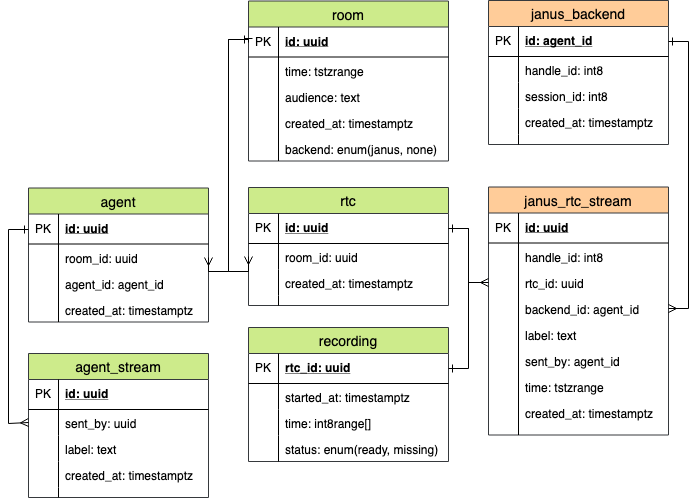
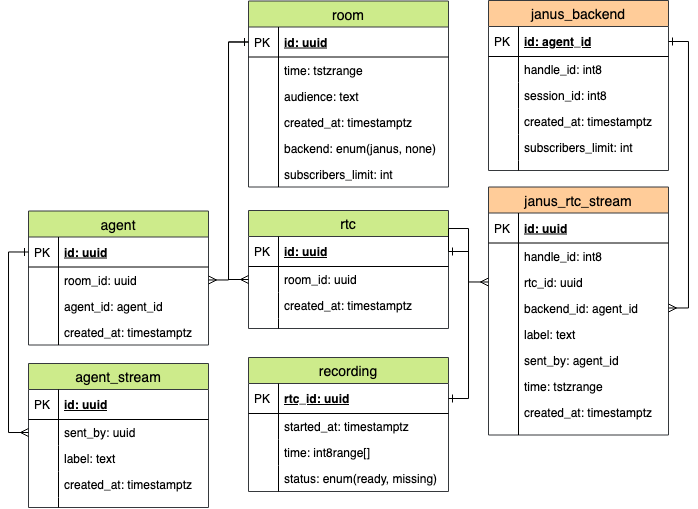
Update docs

diff --git a/docs/src/api/room.md b/docs/src/api/room.md
@@ -2,10 +2,11 @@
 
 ## Properties
 
-Name           | Type       | Default    | Description
----------------| ---------- | ---------- | ----------------------------------------------------
-id             |       uuid | _required_ | The room identifier.
-audience       |     string | _required_ | The audience of the room.
-time           | [int, int] | _required_ | Opening and closing timestamps in seconds.
-created_at     |        int | _required_ | Room creation timestamp in seconds.
-backend        |     string | _required_ | Room backend, either `janus` or `none`.
+Name              | Type       | Default    | Description
+----------------- | ---------- | ---------- | ----------------------------------------------------
+id                |       uuid | _required_ | The room identifier.
+audience          |     string | _required_ | The audience of the room.
+time              | [int, int] | _required_ | Opening and closing timestamps in seconds.
+created_at        |        int | _required_ | Room creation timestamp in seconds.
+backend           |     string | _required_ | Room backend, either `janus` or `none`.
+subscribers_limit |        int | _optional_ | The maximum number of simultaneously entered subscribers allowed.

diff --git a/docs/src/api/room/update.md b/docs/src/api/room/update.md
@@ -14,13 +14,13 @@ method           | String | _required_ | Always `room.update`.
 
 **Payload**
 
-Name     | Type       | Default    | Description
--------- | ---------- | ---------- | ------------------
-id       | String     | _required_ | The room identifier. The room must not be expired.
-time     | [i64, i64) | _optional_ | A [lt, rt) range of unix time (seconds) or null (unbounded).
-audience | String     | _optional_ | The room audience.
-backend  | String     | _optional_ | The room backend. Available values: janus, none.
-
+Name              | Type       | Default    | Description
+----------------- | ---------- | ---------- | ------------------
+id                | String     | _required_ | The room identifier. The room must not be expired.
+time              | [i64, i64) | _optional_ | A [lt, rt) range of unix time (seconds) or null (unbounded).
+audience          | String     | _optional_ | The room audience.
+backend           | String     | _optional_ | The room backend. Available values: janus, none.
+subscribers_limit | i32        | _optional_ | The maximum number of simultaneously entered subscribers allowed.
 
 
 ## Unicast response

diff --git a/docs/src/api/room/create.md b/docs/src/api/room/create.md
@@ -15,12 +15,12 @@ method           | String | _required_ | Always `room.create`.
 
 **Payload**
 
-Name     | Type       | Default    | Description
--------- | ---------- | ---------- | ------------------
-time     | [i64, i64) | _required_ | A [lt, rt) range of unix time (seconds) or null (unbounded).
-audience | String     | _required_ | The room audience.
-backend  | String     | none       | The room backend. Available values: janus, none.
-
+Name              | Type       | Default    | Description
+----------------- | ---------- | ---------- | ------------------
+time              | [i64, i64) | _required_ | A [lt, rt) range of unix time (seconds) or null (unbounded).
+audience          | String     | _required_ | The room audience.
+backend           | String     | none       | The room backend. Available values: janus, none.
+subscribers_limit | i32        | _optional_ | The maximum number of simultaneously entered subscribers allowed.
 
 
 ## Unicast response
